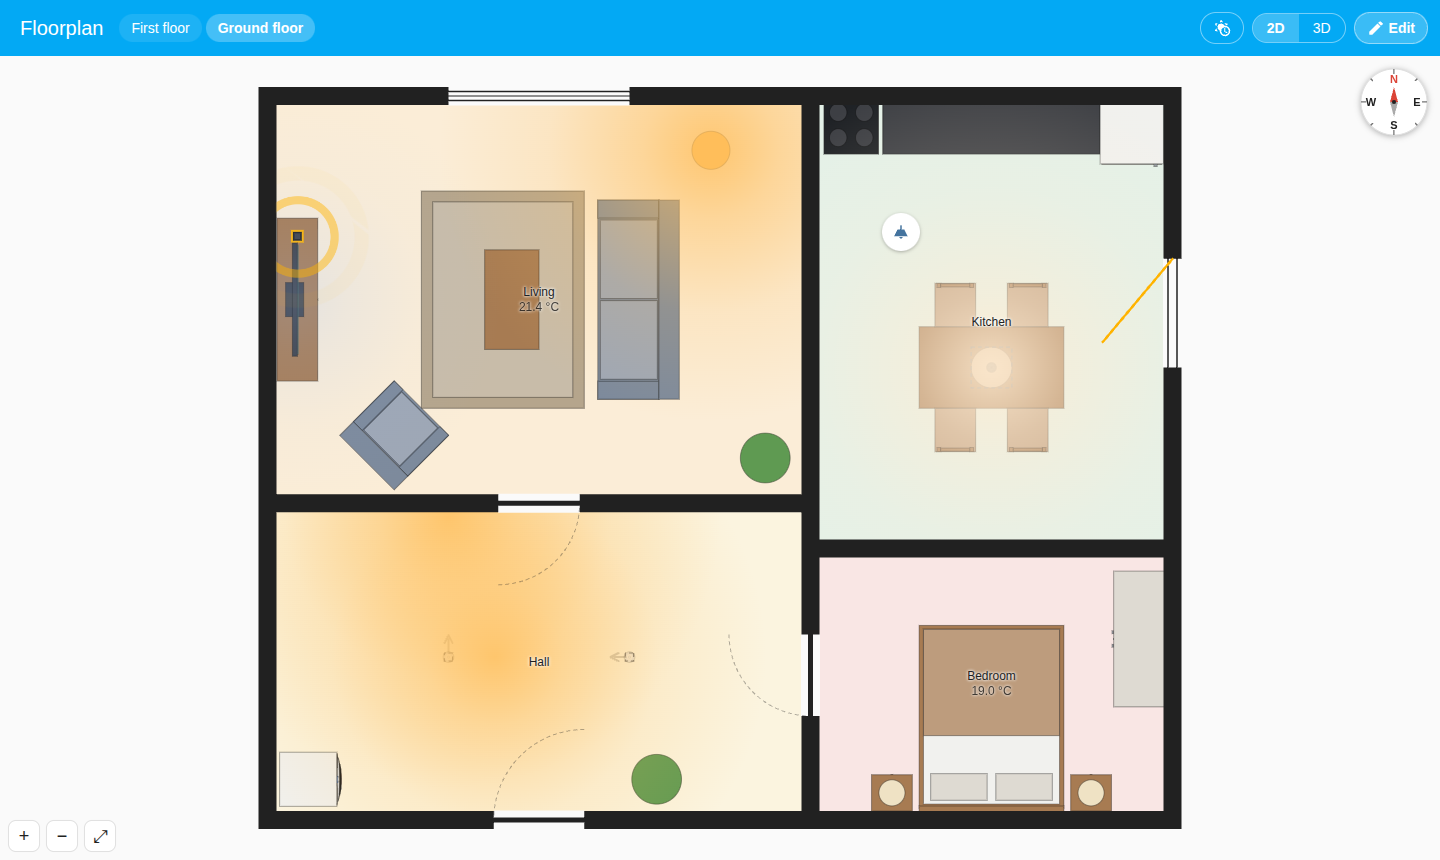
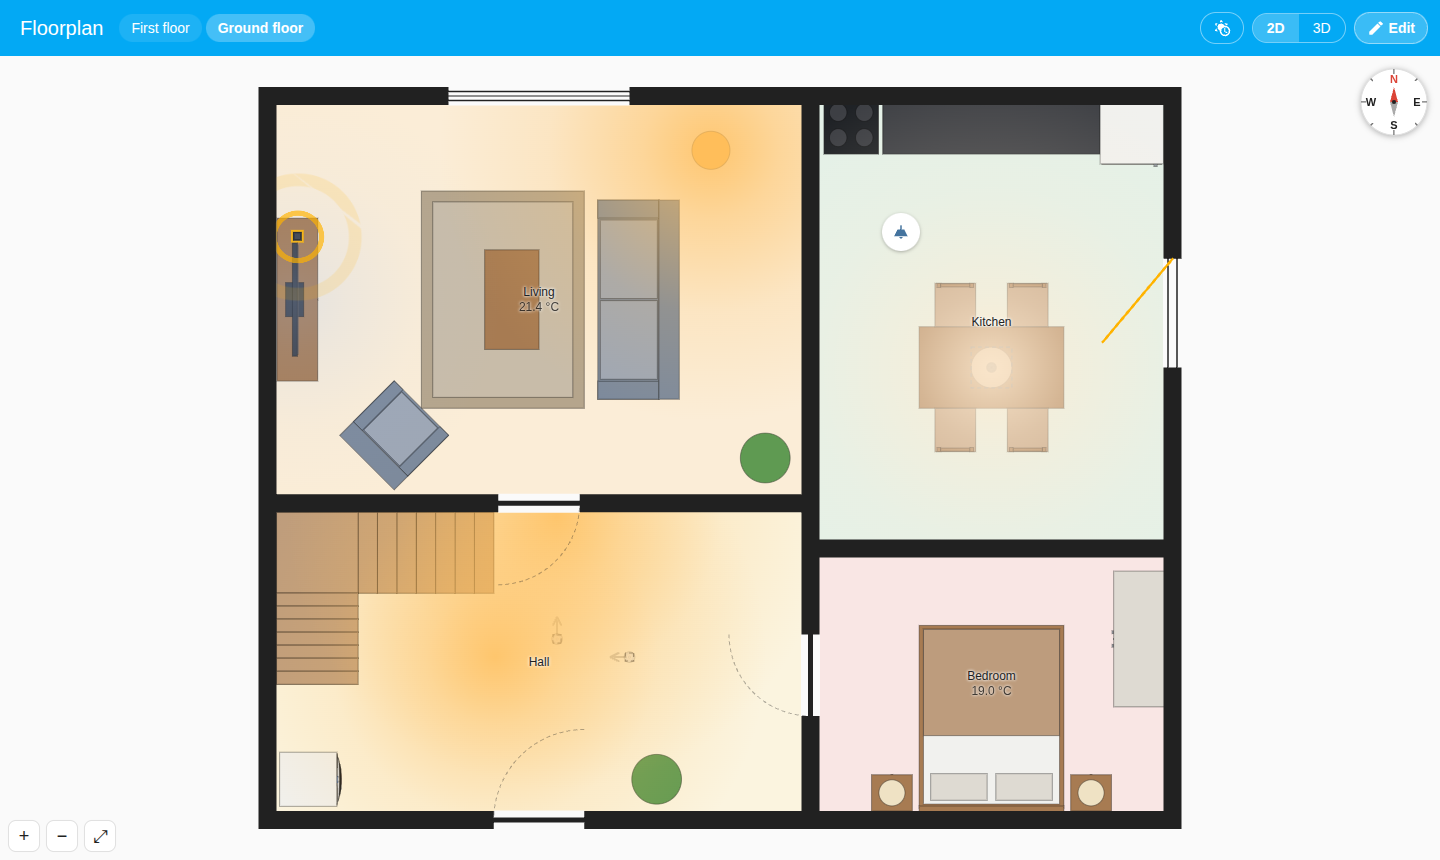
Floorplan Studio 0.3.1

Changed region(s): [[0.1875, 0.5744, 0.5, 0.8163], [0.1875, 0.2116, 0.25, 0.3326]]

diff --git a/custom_components/floorplan_studio/const.py b/custom_components/floorplan_studio/const.py
@@ -1,7 +1,7 @@
 """Constants for Floorplan Studio."""
 
 DOMAIN = "floorplan_studio"
-VERSION = "0.3.0"
+VERSION = "0.3.1"
 
 PANEL_URL_PATH = "floorplan-studio"
 PANEL_TITLE = "Floorplan"

diff --git a/README.md b/README.md
@@ -8,9 +8,11 @@ A Home Assistant integration that adds a **Floorplan** panel to the sidebar. Dra
 
 ![The same home in 3D, with low walls: lamps that are on light up their rooms](https://raw.githubusercontent.com/bazzie/floorplan-studio/main/docs/images/view-3d.png)
 
+![Both floors at once: the first floor above the ground floor, with low walls, the stairs up through the stairwell and an almost see-through roof](https://raw.githubusercontent.com/bazzie/floorplan-studio/main/docs/images/levels-3d.png)
+
 - **Editor** (available to all users): walls, rooms, doors, windows and entity markers. It snaps to a grid and to existing corners, and has undo/redo.
 - **Blueprint**: upload an image of your floorplan and trace over it. *Calibrate scale* sets the real size from two points whose distance you know.
-- **Multiple floors**, each with its own level and wall height.
+- **Multiple floors**, each with its own level and wall height. Staircases reach the floor above, and a floor opening (stairwell, vide) cuts through it. In 3D, *All floors* shows them stacked, and a roof can be made see-through.
 - **Live state**:
   - Rooms light up in the color of a linked light or switch.
   - Rooms can show a sensor value.

diff --git a/CHANGELOG.md b/CHANGELOG.md
@@ -2,6 +2,11 @@
 
 What changed in each release of Floorplan Studio.
 
+## 0.3.1 (2026-10-17)
+
+- Documentation: both floors of the demo house in 3D
+- Documentation: screenshots with the demo house's corrected stairs
+
 ## 0.3.0 (2026-10-17)
 
 - Dutch translation of the panel, the catalog and the setup
